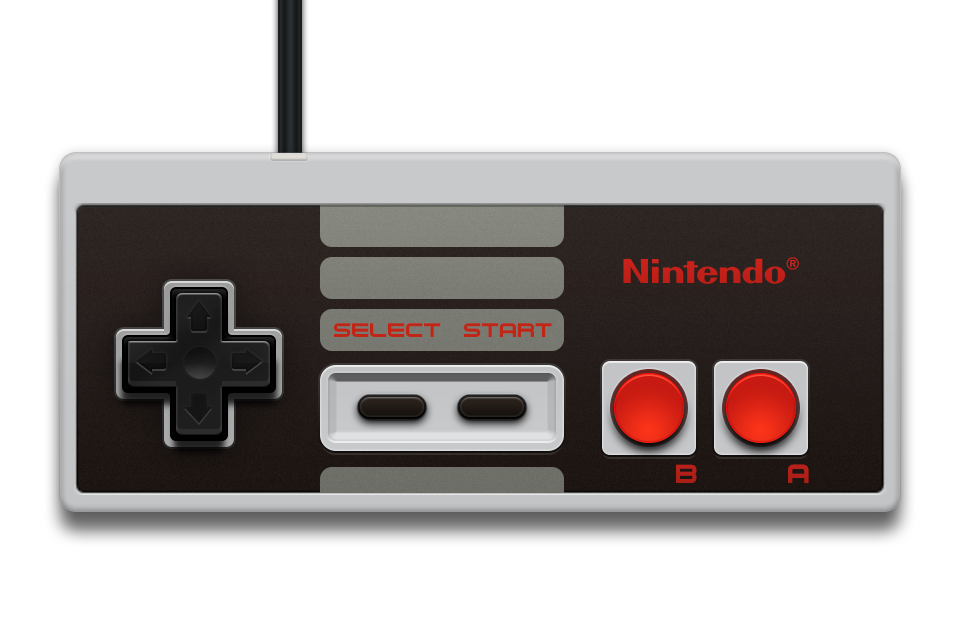
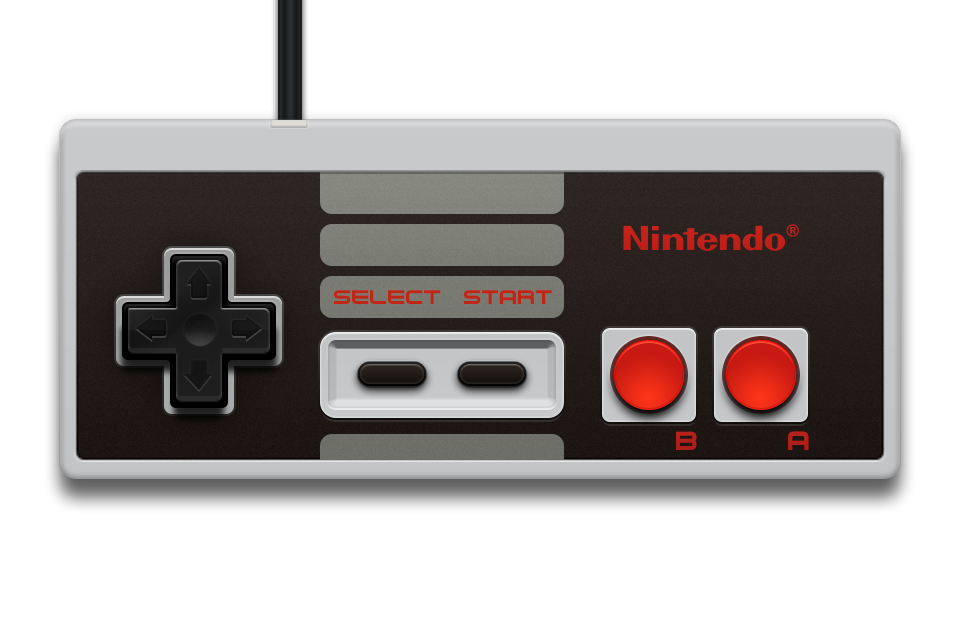
added nes controller

diff --git a/client/style/master.css b/client/style/master.css
@@ -101,10 +101,17 @@ a:hover{
     -o-transition:all 1s ease;
 }
 
+.nes .controller{
+    background-image: url(../images/controller_nes.png);
+}
+.snes .controller{
+    background-image: url(../images/controller_snes.png);
+}
+
 .controller a{
     position: absolute;
     background: red;
-    opacity: 0;
+    opacity: 0.0;
     width: 40px;
     height: 40px;
     overflow:hidden;
@@ -177,6 +184,67 @@ a:hover{
     -ms-transform: rotate(50deg); /* IE 9 */
     -webkit-transform: rotate(50deg); /* Chrome, Safari, Opera */
     transform: rotate(50deg);
+}
+
+.nes #a{
+    left: 360px;
+    top: 167px;
+}
+
+.nes #y{
+    display:none;
+}
+.nes #x{
+    display:none;
+}
+.nes #b{
+    left: 305px;
+    top: 167px;
+}
+
+.nes #left{
+    width: 40px;
+    height: 30px;
+    top: 151px;
+    left: 45px;
+}
+.nes #right{
+    width: 40px;
+    height: 30px;
+    top: 151px;
+    left: 115px;
+}
+.nes #up{
+    width: 30px;
+    height: 40px;
+    top: 110px;
+    left: 84px;
+}
+.nes #down{
+    width: 30px;
+    height: 40px;
+    top: 180px;
+    left: 84px;
+}
+
+.nes #start{
+    left: 226px;
+    top: 178px;
+    width: 40px;
+    height: 20px;
+    -ms-transform: rotate(0); /* IE 9 */
+    -webkit-transform: rotate(0); /* Chrome, Safari, Opera */
+    transform: rotate(0);
+}
+
+.nes #select{
+    left: 176px;
+    top: 178px;
+    width: 40px;
+    height: 20px;
+    -ms-transform: rotate(0); /* IE 9 */
+    -webkit-transform: rotate(0); /* Chrome, Safari, Opera */
+    transform: rotate(0);
 }
 
 /* Grid

diff --git a/client/index.html b/client/index.html
@@ -40,7 +40,7 @@
     
     </script> 
 </head>
-<body>
+<body class="nes">
 
 <a href="https://www.hydna.com" class="logo">Powered by hydna</a>
 <a href="https://github.com/you"><img style="position: absolute; top: 0; right: 0; border: 0;z-index: 3;" src="https://camo.githubusercontent.com/e7bbb0521b397edbd5fe43e7f760759336b5e05f/68747470733a2f2f73332e616d617a6f6e6177732e636f6d2f6769746875622f726962626f6e732f666f726b6d655f72696768745f677265656e5f3030373230302e706e67" alt="Fork me on GitHub" data-canonical-src="https://s3.amazonaws.com/github/ribbons/forkme_right_green_007200.png"></a>
